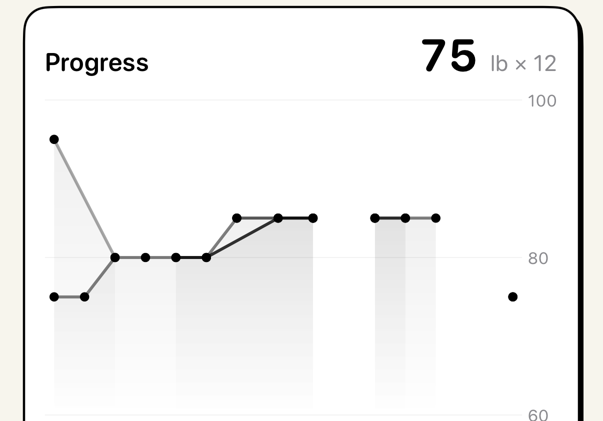
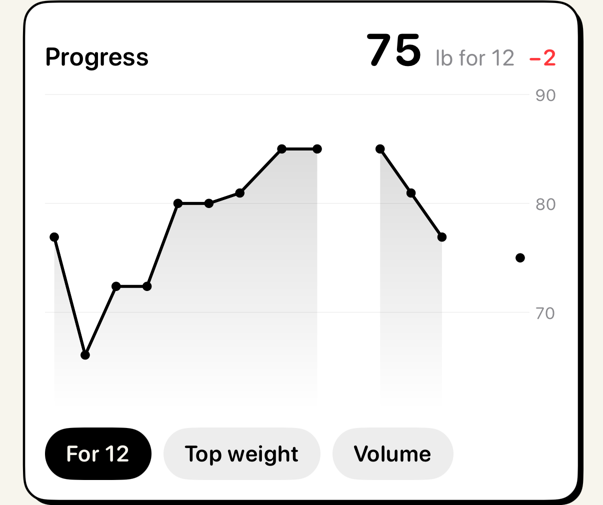
Gym chart: single black line of each session's best set as a 12-rep equivalent (Epley)

diff --git a/Bento/Gym/Views/LogViews.swift b/Bento/Gym/Views/LogViews.swift
@@ -495,11 +495,10 @@ struct SetEntrySheet: View {
     }
 }
 
-/// Weight: one line per rep band (heaviest set of 7–9s, of 12+, …), black dots, lines grayer for
-/// fewer reps, heavier lines drawn on top. Lines stop at breaks longer than three weeks. Other tabs: one value per session (est. 1RM, most
-/// reps or volume) as a filled line. Sessions sit
-/// one step apart and a break widens the step logarithmically, so a 3-month gap shows without
-/// eating the width. Tap a point for that day.
+/// One black line per exercise: by default each session's best set converted to the weight you
+/// could do for 12 (the top of the rep range), so 75×11 to failure, 75×12 and 95×4 all land on the
+/// same scale. Sessions sit one step apart and a break widens the step logarithmically; the line
+/// stops at breaks longer than three weeks. Tap a point for that day's sets.
 struct ProgressChart: View {
     let exercise: ExerciseDefinition
     let gym: Gym?
@@ -507,10 +506,10 @@ struct ProgressChart: View {
     let today: [WorkoutSet]
 
     enum Metric: String, CaseIterable {
-        case weight = "Weight", oneRM = "1RM", reps = "Reps", volume = "Volume"
+        case strength = "For 12", weight = "Top weight", volume = "Volume", reps = "Reps"
     }
 
-    @AppStorage("progressMetric") private var metric: Metric = .weight
+    @AppStorage("progressMetric2") private var metric: Metric = .strength
     @State private var selected: Int?
 
     private struct Day: Identifiable {
@@ -522,8 +521,10 @@ struct ProgressChart: View {
 
         func value(_ m: Metric) -> Double {
             switch m {
+            // Best set converted to the weight you could do for 12 (Epley, 1985):
+            // $w_{12} = w\,(1 + \min(r, 15)/30) \,/\, (1 + 12/30)$
+            case .strength: sets.map { $0.weight * (1 + Double(min($0.reps, 15)) / 30) }.max().map { $0 / 1.4 } ?? 0
             case .weight: sets.map(\.weight).max() ?? 0
-            case .oneRM: sets.map { $0.weight * (1 + Double(min($0.reps, 15)) / 30) }.max() ?? 0
             case .reps: Double(sets.map(\.reps).max() ?? 0)
             case .volume: sets.reduce(0) { $0 + $1.weight * Double($1.reps) }
             }
@@ -531,7 +532,7 @@ struct ProgressChart: View {
     }
 
     private var bodyweight: Bool { WorkoutEngine.isBodyweight(exercise) }
-    private var metrics: [Metric] { bodyweight ? [.reps] : Metric.allCases }
+    private var metrics: [Metric] { bodyweight ? [.reps] : [.strength, .weight, .volume] }
     private var shownMetric: Metric { metrics.contains(metric) ? metric : metrics[0] }
 
     private static func working(_ sets: [WorkoutSet]) -> [(weight: Double, reps: Int)] {
@@ -572,63 +573,44 @@ struct ProgressChart: View {
 
     private func format(_ v: Double) -> String {
         switch shownMetric {
-        case .reps: "\(Int(v))"
+        case .reps, .strength: "\(Int(v.rounded()))"
         case .volume: v >= 10_000 ? String(format: "%.1fk", v / 1000) : "\(Int(v.rounded()))"
         default: ((v * 10).rounded() / 10).clean
         }
     }
 
-    private var unit: String { shownMetric == .reps ? "reps" : "lb" }
-
-    /// Rep bands, so 11s and 12s don't each get a line: lower bound of each band
-    static let bands = [1, 4, 7, 10, 12]
-
-    static func band(_ reps: Int) -> Int { bands.last { $0 <= reps } ?? 1 }
+    private var unit: String {
+        switch shownMetric {
+        case .reps: "reps"
+        case .strength: "lb for 12"
+        default: "lb"
+        }
+    }
 
     /// Sessions further apart than this aren't joined by a line (a straight line would invent the middle)
     static let maxGapDays = 21.0
 
-    /// A run of one rep band's heaviest set per session, with no long break inside it
+    /// A run of sessions with no long break inside it
     private struct Segment: Identifiable {
-        let id: String
-        let band: Int
+        let id: Int
         let points: [(x: Double, y: Double)]
     }
 
     /// Splits (date, x, y) points wherever two neighbours are more than maxGapDays apart
-    private static func segments(_ pts: [(date: Date, x: Double, y: Double)], band: Int) -> [Segment] {
+    private static func segments(_ pts: [(date: Date, x: Double, y: Double)]) -> [Segment] {
         var out: [Segment] = []
         var run: [(x: Double, y: Double)] = []
         var prev: Date?
         for p in pts {
             if let prev, p.date.timeIntervalSince(prev) / 86_400 > maxGapDays {
-                out.append(Segment(id: "\(band)-\(out.count)", band: band, points: run))
+                out.append(Segment(id: out.count, points: run))
                 run = []
             }
             run.append((p.x, p.y))
             prev = p.date
         }
-        if !run.isEmpty { out.append(Segment(id: "\(band)-\(out.count)", band: band, points: run)) }
+        if !run.isEmpty { out.append(Segment(id: out.count, points: run)) }
         return out
-    }
-
-    /// Weight tab: per rep band, its heaviest set each session. Lightest bands first, so heavier
-    /// lines draw on top
-    private static func bandSegments(_ days: [Day]) -> [Segment] {
-        var byBand: [Int: [(date: Date, x: Double, y: Double)]] = [:]
-        for d in days {
-            for b in Set(d.sets.map { band($0.reps) }) {
-                let w = d.sets.filter { band($0.reps) == b }.map(\.weight).max()!
-                byBand[b, default: []].append((d.date, d.x, w))
-            }
-        }
-        func avg(_ pts: [(date: Date, x: Double, y: Double)]) -> Double { pts.map(\.y).reduce(0, +) / Double(pts.count) }
-        return byBand.sorted { avg($0.value) < avg($1.value) }.flatMap { segments($0.value, band: $0.key) }
-    }
-
-    /// Line gray by rep band: fewer reps lighter, 12+ darkest
-    static func lineShade(_ band: Int) -> Double {
-        0.2 + 0.6 * Double(bands.firstIndex(of: band) ?? 0) / Double(bands.count - 1)
     }
 
     var body: some View {
@@ -638,11 +620,8 @@ struct ProgressChart: View {
             EmptyView()
         } else {
             let m = shownMetric
-            let bySeries = m == .weight
-            let lines = bySeries
-                ? Self.bandSegments(days)
-                : Self.segments(days.map { ($0.date, $0.x, $0.value(m)) }, band: 12)
-            let values = bySeries ? days.flatMap { $0.sets.map(\.weight) } : days.map { $0.value(m) }
+            let lines = Self.segments(days.map { ($0.date, $0.x, $0.value(m)) })
+            let values = days.map { $0.value(m) }
             let lo = values.min()!, hi = values.max()!
             let pad = max(m == .reps ? 1 : 5, (hi - lo) * 0.15)
             let yMin = max(0, lo - pad)
@@ -650,7 +629,6 @@ struct ProgressChart: View {
             let xMax = days.last!.x
             let shown = selected.flatMap { i in days.first { $0.index == i } } ?? days.last!
             let delta = shown.value(m) - days[0].value(m)
-            let bestSet = shown.sets.max { ($0.weight, $0.reps) < ($1.weight, $1.reps) }!
 
             VStack(alignment: .leading, spacing: 12) {
                 HStack(alignment: .firstTextBaseline) {
@@ -667,32 +645,25 @@ struct ProgressChart: View {
                         }
                     }
                     Spacer()
-                    if bySeries {
-                        Text(bestSet.weight.clean)
-                            .font(.system(size: 30, weight: .bold).monospacedDigit())
-                        Text("lb × \(bestSet.reps)").font(.subheadline).foregroundStyle(.secondary)
-                    } else {
-                        Text(format(shown.value(m)))
-                            .font(.system(size: 30, weight: .bold).monospacedDigit())
-                        Text(unit).font(.subheadline).foregroundStyle(.secondary)
-                        if delta != 0 {
-                            Text("\(delta > 0 ? "+" : "−")\(format(abs(delta)))")
-                                .font(.subheadline.weight(.semibold).monospacedDigit())
-                                .foregroundStyle(delta > 0 ? Color.bentoActivity : .red)
-                        }
+                    Text(format(shown.value(m)))
+                        .font(.system(size: 30, weight: .bold).monospacedDigit())
+                    Text(unit).font(.subheadline).foregroundStyle(.secondary)
+                    if delta != 0 {
+                        Text("\(delta > 0 ? "+" : "−")\(format(abs(delta)))")
+                            .font(.subheadline.weight(.semibold).monospacedDigit())
+                            .foregroundStyle(delta > 0 ? Color.bentoActivity : .red)
                     }
                 }
 
                 Chart {
                     ForEach(lines) { seg in
-                        let ink = Color.primary.opacity(bySeries ? Self.lineShade(seg.band) : 1)
                         ForEach(Array(seg.points.enumerated()), id: \.offset) { _, pt in
                             AreaMark(x: .value("Session", pt.x), yStart: .value("min", yMin), yEnd: .value("lb", pt.y),
                                      series: .value("Line", seg.id))
-                                .foregroundStyle(LinearGradient(colors: [Color.primary.opacity(bySeries ? 0.06 : 0.14), .clear],
+                                .foregroundStyle(LinearGradient(colors: [Color.primary.opacity(0.14), .clear],
                                                                 startPoint: .top, endPoint: .bottom))
                             LineMark(x: .value("Session", pt.x), y: .value("lb", pt.y), series: .value("Line", seg.id))
-                                .foregroundStyle(ink)
+                                .foregroundStyle(Color.primary)
                                 .lineStyle(StrokeStyle(lineWidth: 2, lineCap: .round, lineJoin: .round))
                             PointMark(x: .value("Session", pt.x), y: .value("lb", pt.y))
                                 .foregroundStyle(Color.primary)
